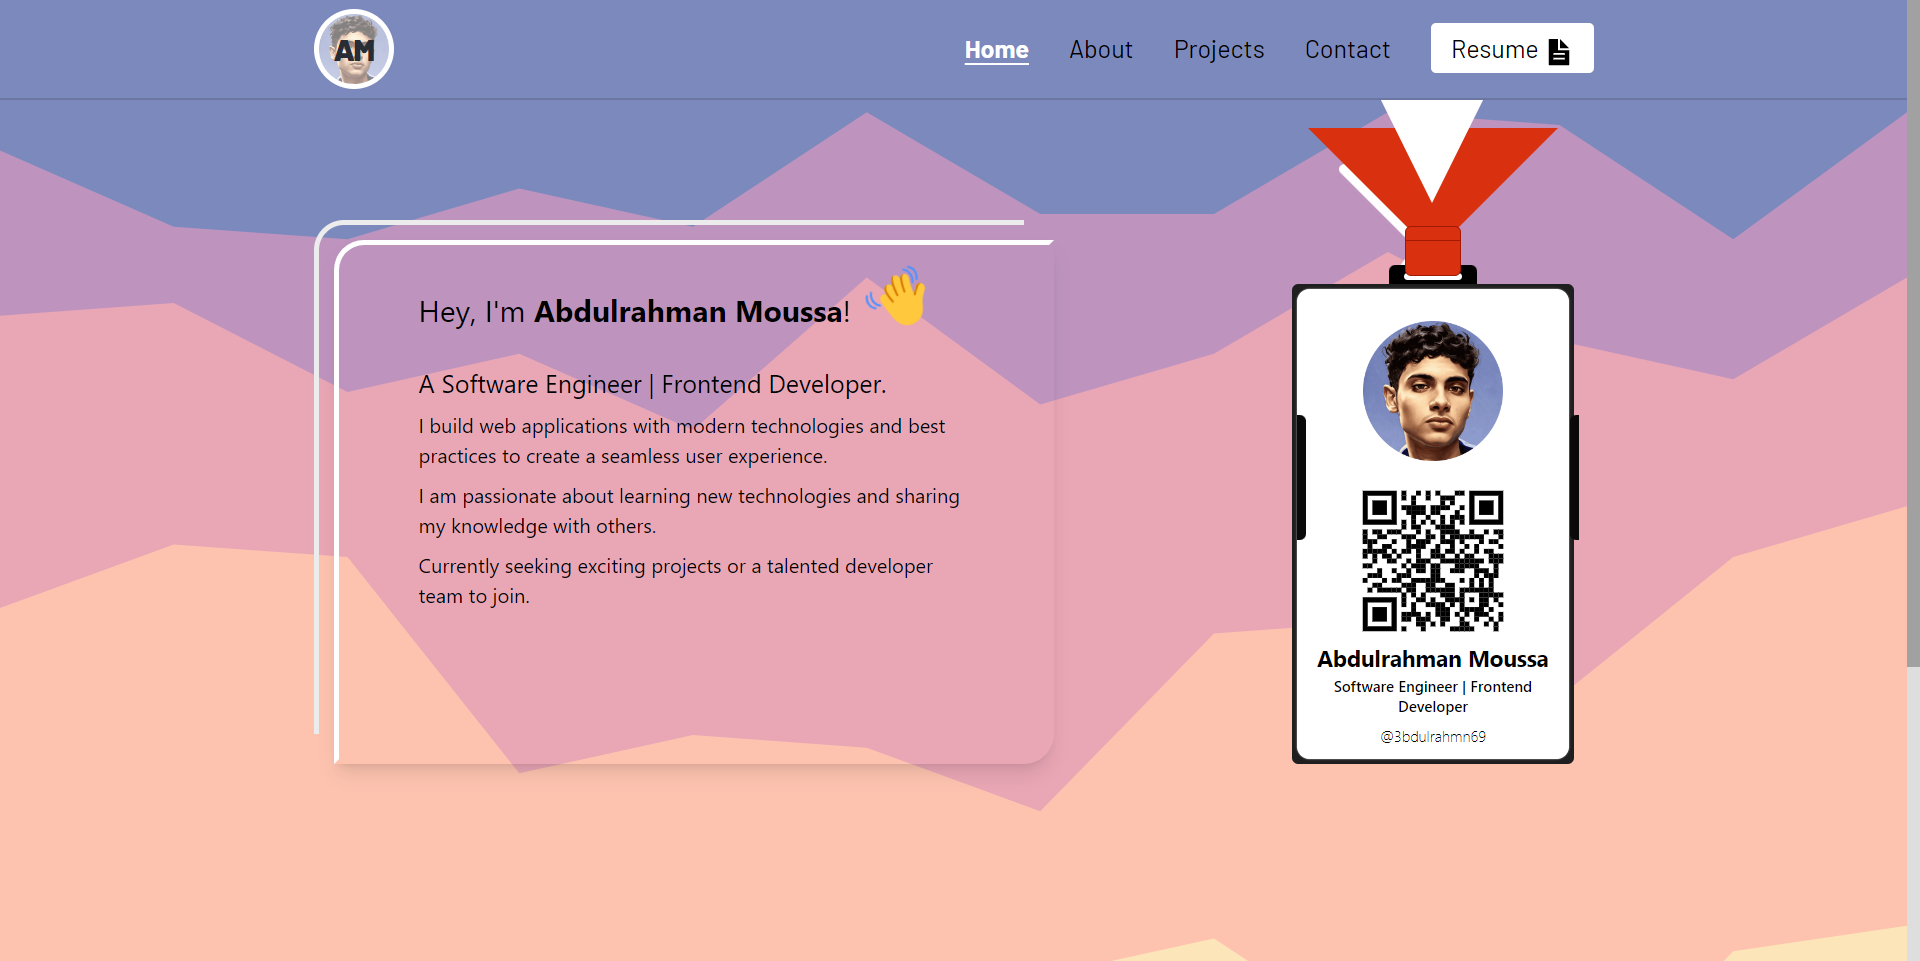
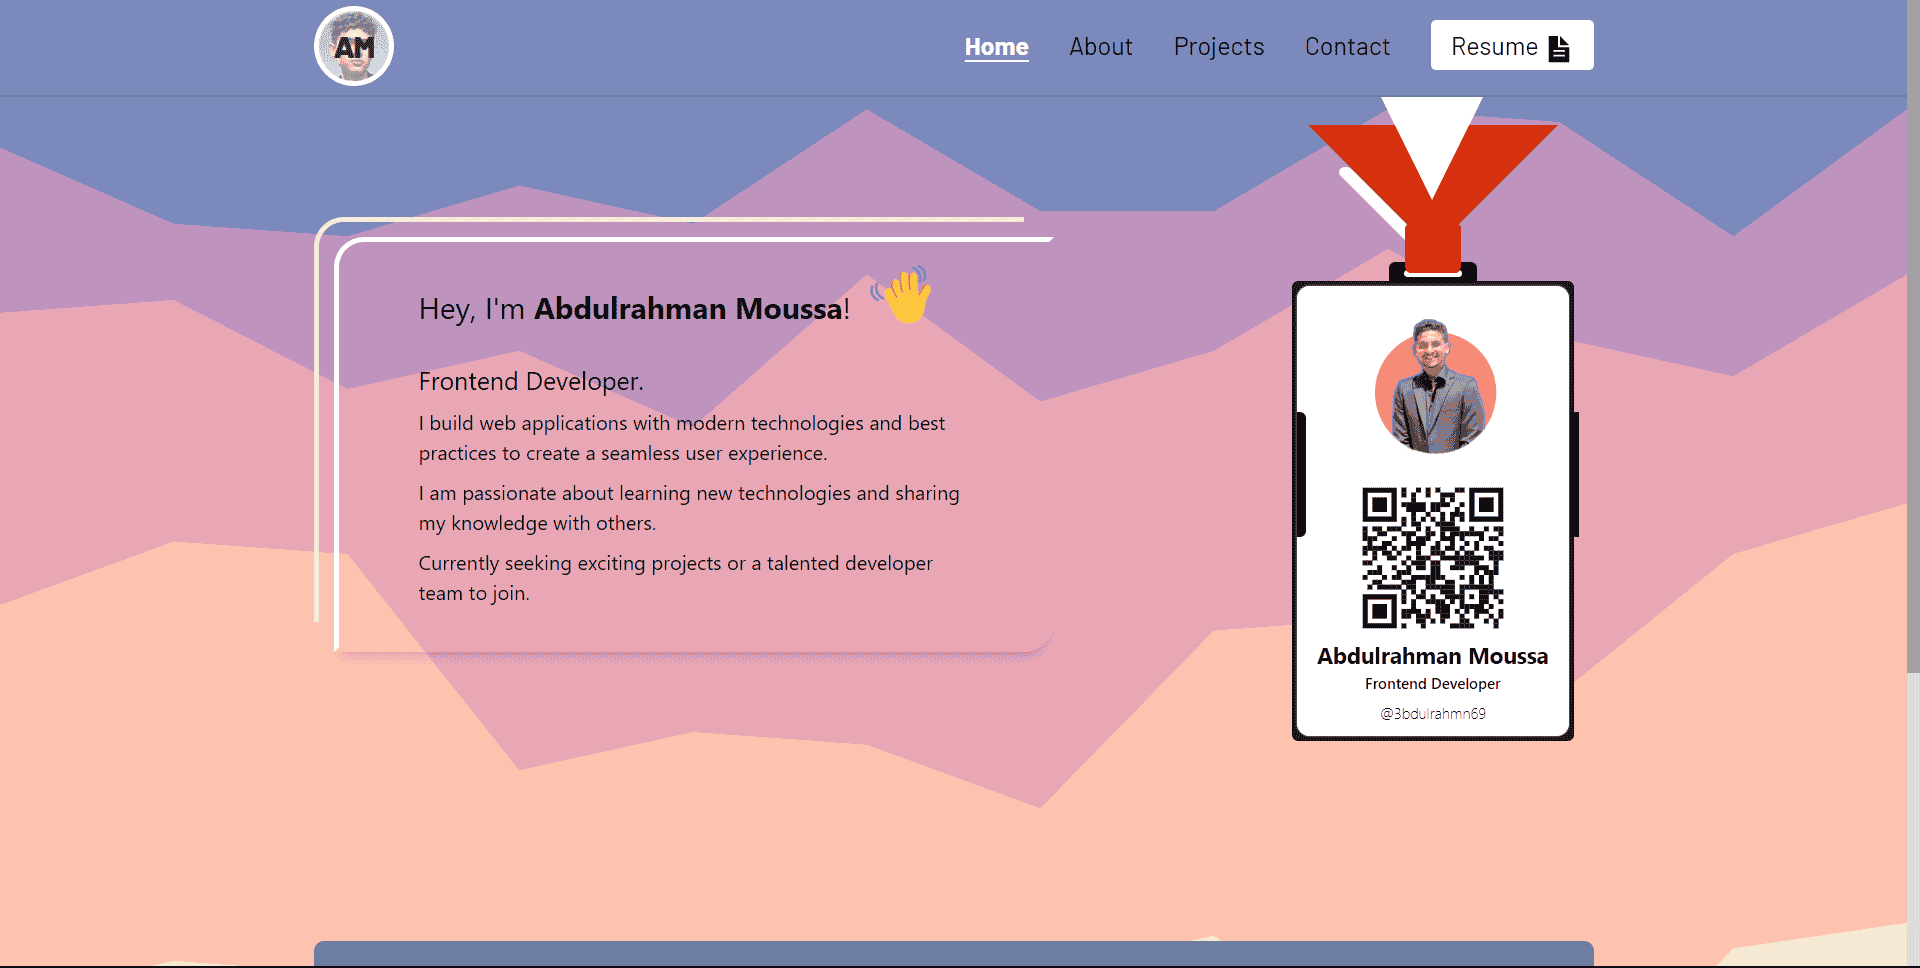
update home image, update graduated

diff --git a/src/pages/Home.jsx b/src/pages/Home.jsx
@@ -1,6 +1,7 @@
 import { useEffect } from 'react';
 import { Link } from 'react-router-dom';
 import Container from '../components/Container';
+import DetailsCard from '../components/DetailsCard';
 import IdCard from '../components/IdCard';
 
 const Home = () => {
@@ -12,34 +13,9 @@ const Home = () => {
   return (
     <main>
       <Container className="py-8">
-        <section className="w-full flex justify-between md:flex-row flex-col-reverse px-4 gap-4">
-          <div className="name-card max-w-xl relative mt-20 border-4 border-white border-b-transparent border-r-transparent py-4 md:py-8 px-8 md:px-16 rounded-3xl rounded-tr-none rounded-bl-none shadow-lg animate-FadeIn">
-            <div className="flex items-center">
-              <h1 className="md:text-2xl text-xl mb-2">
-                Hey, I&apos;m{' '}
-                <span className="font-bold text-2xl">Abdulrahman Moussa</span>!
-              </h1>
-              <span
-                className="md:text-5xl text-3xl animate-handCheck"
-                aria-label="Hand waving"
-                role="img"
-              >
-                👋
-              </span>
-            </div>
-            <p className="md:text-xl text-lg mt-4 mb-2">Frontend Developer.</p>
-            <p className="mb-2">
-              I build web applications with modern technologies and best
-              practices to create a seamless user experience.
-            </p>
-            <p className="mb-2">
-              I am passionate about learning new technologies and sharing my
-              knowledge with others.
-            </p>
-            <p>
-              Currently seeking exciting projects or a talented developer team
-              to join.
-            </p>
+        <section className="w-full flex justify-between md:flex-row flex-col-reverse px-4 gap-16 md:gap-4">
+          <div className="animate-FadeIn mt-20">
+            <DetailsCard />
           </div>
           <div className="animate-FadeInRev">
             <IdCard />

diff --git a/src/components/DetailsCard.jsx b/src/components/DetailsCard.jsx
@@ -1,0 +1,36 @@
+const DetailsCard = () => {
+  return (
+    <div>
+      <div className="name-card max-w-xl relative border-4 border-white border-b-transparent border-r-transparent py-4 md:py-8 px-8 md:px-16 rounded-3xl rounded-tr-none rounded-bl-none shadow-lg">
+        <div className="flex items-center">
+          <h1 className="md:text-2xl text-xl mb-2">
+            Hey, I&apos;m{' '}
+            <span className="font-bold text-2xl">Abdulrahman Moussa</span>!
+          </h1>
+          <span
+            className="md:text-5xl text-3xl animate-handCheck"
+            aria-label="Hand waving"
+            role="img"
+          >
+            👋
+          </span>
+        </div>
+        <p className="md:text-xl text-lg mt-4 mb-2">Frontend Developer.</p>
+        <p className="mb-2">
+          I build web applications with modern technologies and best practices
+          to create a seamless user experience.
+        </p>
+        <p className="mb-2">
+          I am passionate about learning new technologies and sharing my
+          knowledge with others.
+        </p>
+        <p>
+          Currently seeking exciting projects or a talented developer team to
+          join.
+        </p>
+      </div>
+    </div>
+  );
+};
+
+export default DetailsCard;

diff --git a/src/components/MyImage.jsx b/src/components/MyImage.jsx
@@ -1,0 +1,18 @@
+import withoutBg from '../assets/without-bg.png';
+
+const MyImage = () => {
+  return (
+    <figure className="w-full -mt-24 relative">
+      <img
+        src={withoutBg}
+        alt="Abdulrahman Moussa"
+        className="w-full h-full object-cover"
+      />
+      <div className="absolute -z-10 top-0 -right-10  w-80 h-80 rounded-full bg-[#EF5A6F]"></div>
+      <div className="absolute -z-10 top-1/2 -translate-y-1/2 -left-16  w-80 h-80 rounded-full bg-[#F1DEC6] clip"></div>
+      <div className="absolute -z-10 bottom-0 -right-10  w-80 h-56 bg-[#4C3BCF]"></div>
+    </figure>
+  );
+};
+
+export default MyImage;

diff --git a/src/pages/About.jsx b/src/pages/About.jsx
@@ -113,10 +113,10 @@ const About = () => {
             <div>
               <p>
                 <strong>Bachelor of Commerce</strong> - El Obour Institute,
-                UnderGraduated 2024
+                Graduated 2024
               </p>
               <p>
-                Majored in Accounting and Finance, with a minor in Business Law.
+                Management Information Systems (MIS) major
               </p>
             </div>
             <div>

diff --git a/src/css/index.css b/src/css/index.css
@@ -286,3 +286,17 @@ img {
   top: -130px;
   left: -50px;
 }
+
+.clip {
+  clip-path: polygon(
+    34% 34%,
+    83% 12%,
+    100% 45%,
+    69% 56%,
+    68% 100%,
+    51% 69%,
+    6% 78%,
+    0 43%,
+    17% 12%
+  );
+}

diff --git a/src/components/IdCard.jsx b/src/components/IdCard.jsx
@@ -1,4 +1,4 @@
-import myPic from '../assets/logo.png';
+import myPic from '../assets/myPic.webp';
 import qrCode from '../assets/qr-code.svg';
 
 const IdCard = () => {
